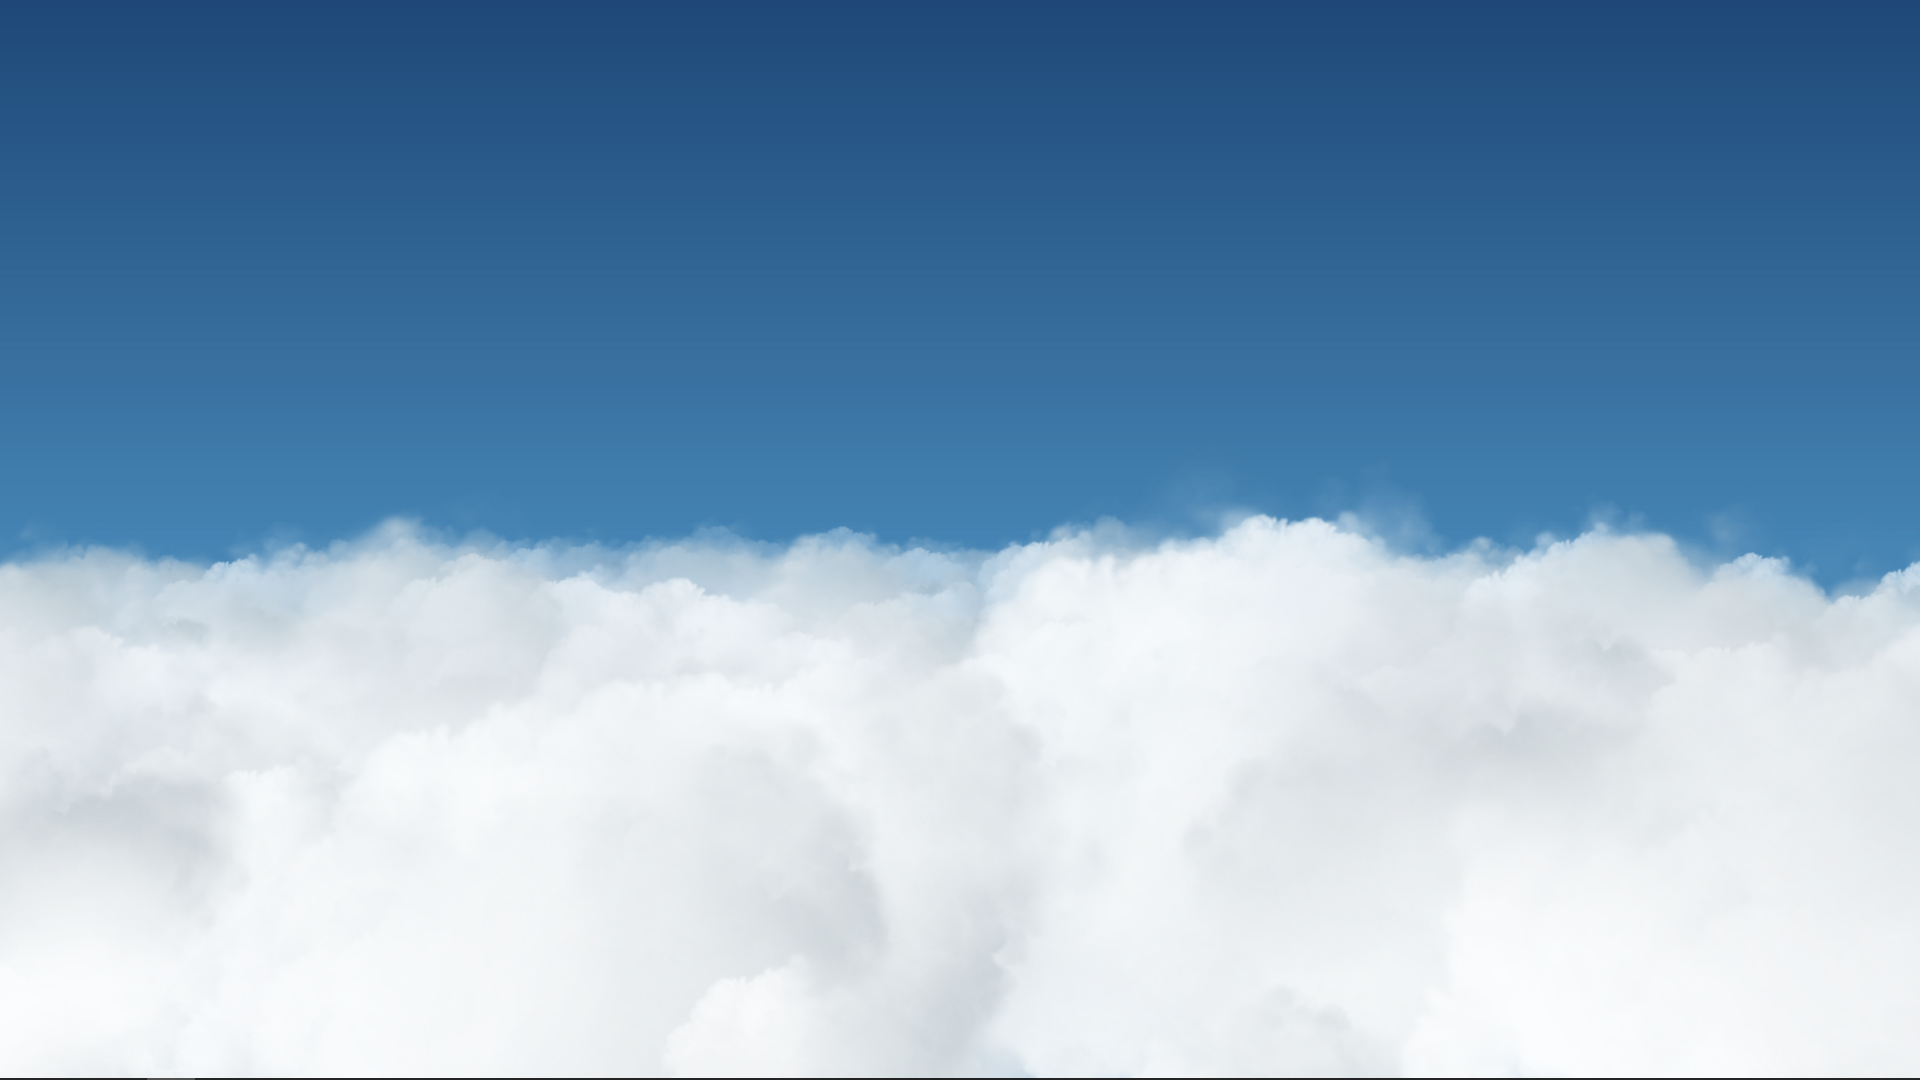
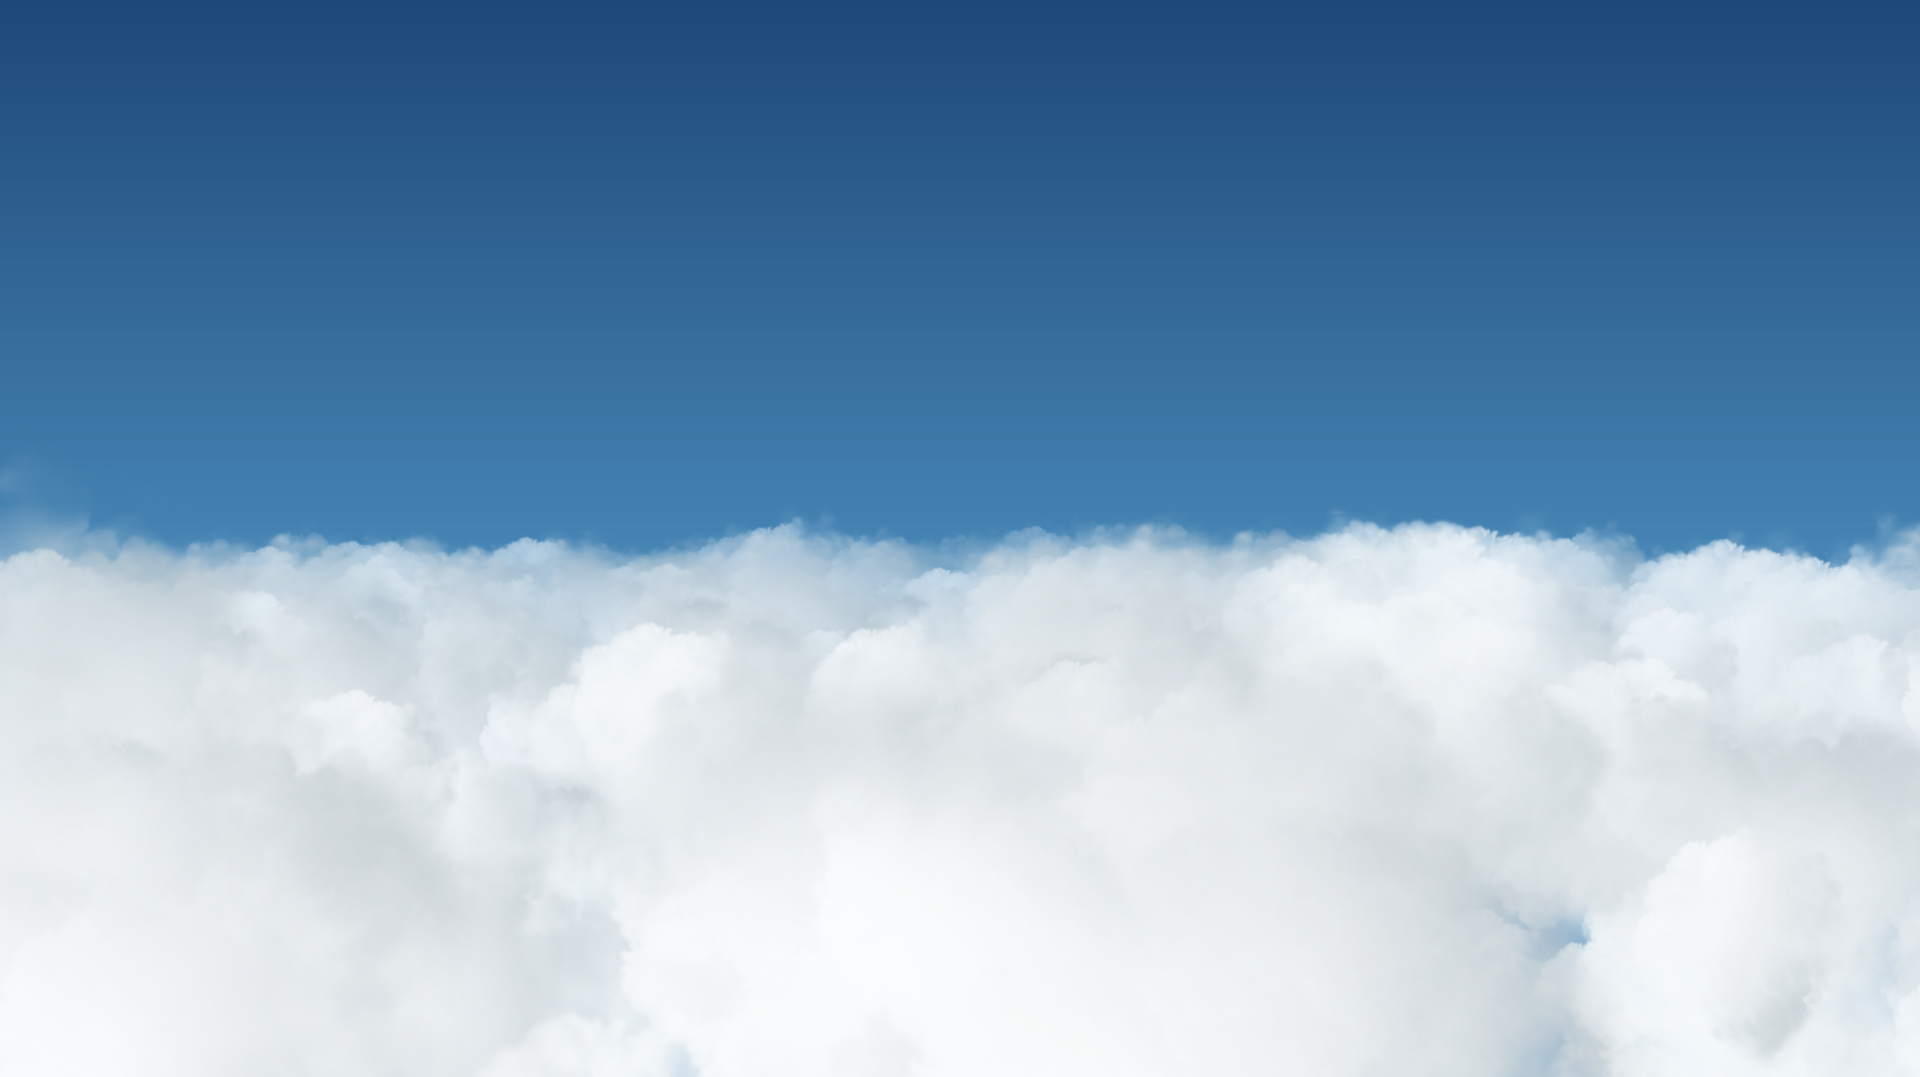
fixed bgimage

diff --git a/public/styles.css b/public/styles.css
@@ -18,7 +18,7 @@ body {
     background: url(imgs/clouds.png);
     background-repeat:  no-repeat;
     background-position: center;
-    background-size: cover 101%;
+    background-size: cover;
     border: none;
 }
 
